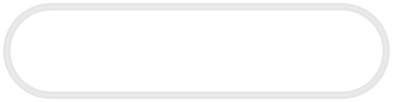
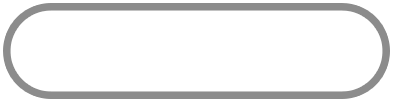
Lots of things happened. In app purchase code has been added. needs to be tested.

Changed region(s): [[0.0, 0.0294, 1.0, 0.9706]]

diff --git a/Poppolo/MainMenu.m b/Poppolo/MainMenu.m
@@ -22,6 +22,18 @@
         self.backgroundColor = [SKColor whiteColor];
         
         
+        // remove ads button
+        
+        // duzelt burayi
+        
+        SKButton *removeAdsButton = [[SKButton alloc] initWithImageNamedNormal:@"WhiteOverlay" selected:@"TransparentButton"];
+        [removeAdsButton setPosition:CGPointMake(self.scene.size.width/2, self.scene.size.height/2-200)];
+        [removeAdsButton.title setText:@"remove ads"];
+        [removeAdsButton.title setFontName:@"Helvetica"];
+        [removeAdsButton.title setFontSize:20.0];
+        [removeAdsButton.title setFontColor:levelPassColor];
+        [removeAdsButton setTouchUpInsideTarget:self action:@selector(removeAds)];
+        [self addChild:removeAdsButton];
         
 
         
@@ -32,6 +44,9 @@
         
         SKAction *fadeIn = [SKAction fadeInWithDuration:2];
         [logoNode runAction:fadeIn];
+        
+       
+       
         
         // play button
         
@@ -44,17 +59,6 @@
         [backButton setTouchUpInsideTarget:self action:@selector(resumeLevel)];
         [self addChild:backButton];
         
-        // remove ads button
-        
-        SKButton *removeAdsButton = [[SKButton alloc] initWithImageNamedNormal:@"TransparentButton" selected:@"TransparentButton"];
-        [removeAdsButton setPosition:CGPointMake(self.scene.size.width/2, self.scene.size.height/2-40)];
-        [removeAdsButton.title setText:@"remove ads"];
-        [removeAdsButton.title setFontName:@"Helvetica"];
-        [removeAdsButton.title setFontSize:20.0];
-        [removeAdsButton.title setFontColor:instructionColor];
-        [removeAdsButton setTouchUpInsideTarget:self action:@selector(removeAds)];
-        [self addChild:removeAdsButton];
-        
         // set the ad counter
         
         [GameData sharedGameData].adShowCount = 0;
@@ -62,7 +66,7 @@
         SKLabelNode *gameRuleLabel2 = [[SKLabelNode alloc] initWithFontNamed:@"Helvetica"];
         gameRuleLabel2.text = @"this is a simple game.";
         gameRuleLabel2.fontSize = 24;
-        gameRuleLabel2.fontColor = [UIColor colorWithRed:230/255.0 green:230/255.0 blue:230/255.0 alpha:1.0];
+        gameRuleLabel2.fontColor = [UIColor colorWithRed:140/255.0 green:140/255.0 blue:140/255.0 alpha:1.0];
         gameRuleLabel2.position = CGPointMake(self.scene.size.width/2, self.scene.size.height/2 -90);
         gameRuleLabel2.alpha = 0 ;
         
@@ -82,7 +86,7 @@
         SKLabelNode *gameRuleLabel = [[SKLabelNode alloc] initWithFontNamed:@"Helvetica"];
         gameRuleLabel.text = @"follow the suit, or lose.";
         gameRuleLabel.fontSize = 24;
-        gameRuleLabel.fontColor = [UIColor colorWithRed:230/255.0 green:230/255.0 blue:230/255.0 alpha:1.0];
+        gameRuleLabel.fontColor = [UIColor colorWithRed:140/255.0 green:140/255.0 blue:140/255.0 alpha:1.0];
         gameRuleLabel.position = CGPointMake(self.scene.size.width/2, self.scene.size.height/2 -120);
         gameRuleLabel.alpha = 0 ;
         
@@ -99,7 +103,7 @@
         SKLabelNode *gameRuleLabel4 = [[SKLabelNode alloc] initWithFontNamed:@"Helvetica"];
         gameRuleLabel4.text = [NSString stringWithFormat:@"high score: %li", [GameData sharedGameData].highScore];
         gameRuleLabel4.fontSize = 24;
-        gameRuleLabel4.fontColor = [UIColor colorWithRed:230/255.0 green:230/255.0 blue:230/255.0 alpha:1.0];
+        gameRuleLabel4.fontColor = [UIColor colorWithRed:140/255.0 green:140/255.0 blue:140/255.0 alpha:1.0];
         gameRuleLabel4.position = CGPointMake(self.scene.size.width/2, self.scene.size.height/2 +180);
         gameRuleLabel4.alpha = 0 ;
         
@@ -184,7 +188,8 @@
     NSURL *url = [[NSBundle mainBundle] URLForResource:@"InApp" withExtension:@"plist"];
     NSArray *productIdentifiers =[NSArray arrayWithContentsOfURL:url];
     
-    
+    NSLog(@"remove ads button pressed");
+    [self validateProductIdentifiers:productIdentifiers];
     
 }
 
@@ -197,13 +202,80 @@
 }
 
 -(void)productsRequest:(SKProductsRequest *)request didReceiveResponse:(SKProductsResponse *)response{
-    //self.products = response.products;
     
-    for (NSString *invalidIdentifier in response.invalidProductIdentifiers) {
-        // Handle invalid product ids
+    NSArray *products = response.products;
+    SKProduct *product = [products objectAtIndex:0];
+    SKMutablePayment *payment = [SKMutablePayment paymentWithProduct:product];
+    payment.quantity = 1;
+    
+    
+    [[SKPaymentQueue defaultQueue] addPayment:payment];
+
+    
+}
+
+-(void)paymentQueue:(SKPaymentQueue *)queue updatedTransactions:(NSArray *)transactions{
+    
+    for (SKPaymentTransaction *transaction in transactions){
+        
+        switch (transaction.transactionState) {
+            case SKPaymentTransactionStatePurchased:
+                // purchase completed
+                [self completeTransaction:transaction];
+                break;
+            case SKPaymentTransactionStateFailed:
+                // purchase failed
+                [self failedTransaction:transaction];
+                break;
+            case SKPaymentTransactionStateRestored:
+                //purchase restored
+                [self restoreTransaction:transaction];
+                break;
+            default:
+                break;
+        }
     }
+}
+
+-(void)completeTransaction:(SKPaymentTransaction *)transaction{
+    
+    
+    [self recordTransaction:transaction];
+    [self provideContent:transaction.payment.productIdentifier];
+    
+    // remove the transaction from the payment queue
+    
+    [[SKPaymentQueue defaultQueue] finishTransaction:transaction];
+    
+}
+
+-(void)failedTransaction:(SKPaymentTransaction *)transaction{
+    
+    if (transaction.error.code != SKErrorPaymentCancelled) {
+        
+        UIAlertView *alertView = [[UIAlertView alloc] initWithTitle:@"Transaction failed" message:@"Your payment did not go through" delegate:self cancelButtonTitle:@"OK" otherButtonTitles:nil, nil];
+        [alertView show];
+    }
+    
+    [[SKPaymentQueue defaultQueue] finishTransaction:transaction];
+}
+
+-(void)restoreTransaction:(SKPaymentTransaction *)transaction{
+    
+    [self recordTransaction:transaction];
+    [self provideContent:transaction.originalTransaction.payment.productIdentifier];
+    [[SKPaymentQueue defaultQueue] finishTransaction:transaction];
+    
+}
+
+-(void)provideContent:(NSString *)contentId{
+    
+    // unlock endless mode
+    
+    [[NSUserDefaults standardUserDefaults] setInteger:2 forKey:contentId];
     
     
 }
+
 
 @end

diff --git a/Poppolo/StoreHelper.m b/Poppolo/StoreHelper.m
@@ -40,7 +40,7 @@
         return;
     }
     
-    currentPurchase = EndlessMode;
+    currentPurchase = RemoveAds;
     
     SKProductsRequest *request = [[SKProductsRequest alloc] initWithProductIdentifiers:[NSSet setWithObject:currentPurchase]];
     request.delegate=self;
@@ -105,8 +105,8 @@
     
     if (transaction.error.code != SKErrorPaymentCancelled) {
         
-        UIAlertView *alert = [[UIAlertView alloc] initWithTitle:@"Transaction failed" message:@"Your payment did not go throught" delegate:self cancelButtonTitle:@"OK" otherButtonTitles:nil, nil];
-        [alert show];
+        UIAlertView *alertView = [[UIAlertView alloc] initWithTitle:@"Transaction failed" message:@"Your payment did not go through" delegate:self cancelButtonTitle:@"OK" otherButtonTitles:nil, nil];
+        [alertView show];
     }
     
     [[SKPaymentQueue defaultQueue] finishTransaction:transaction];
@@ -128,7 +128,7 @@
     
     AppDelegate *appDelegateInstance = (AppDelegate*) [[UIApplication sharedApplication] delegate];
     
-    if ([contentId isEqualToString:EndlessMode]) {
+    if ([contentId isEqualToString:RemoveAds]) {
         [appDelegateInstance unlockEndlessMode];
     }
     

diff --git a/Poppolo/Constants.h b/Poppolo/Constants.h
@@ -8,7 +8,7 @@
 
 // Label Colors
 
-#define instructionColor [SKColor colorWithRed:230/255.0 green:230/255.0 blue:230/255.0 alpha:1.0]
+#define instructionColor [SKColor colorWithRed:140/255.0 green:140/255.0 blue:140/255.0 alpha:1.0]
 #define warningColor [SKColor colorWithRed:230/255.0 green:190/255.0 blue:190/255.0 alpha:1.0]
 #define levelPassColor [SKColor colorWithRed:200/255.0 green:200/255.0 blue:215/255.0 alpha:1.0]
 #define secretLevelBackgroundColor [SKColor colorWithRed:100/255.0 green:100/255.0 blue:100/255.0 alpha:1.0]
@@ -67,7 +67,7 @@
 
 // Endless mode
 
-#define EndlessMode @"com.cihankoseoglu.poppolo.endlessmode"
+#define RemoveAds @"com.cihankoseoglu.poppolo.removeads"
 
 
 

diff --git a/Poppolo/MainMenu.h b/Poppolo/MainMenu.h
@@ -9,6 +9,15 @@
 #import <SpriteKit/SpriteKit.h>
 #import <StoreKit/StoreKit.h>
 
-@interface MainMenu : SKScene <SKProductsRequestDelegate>
+@interface MainMenu : SKScene <SKProductsRequestDelegate, SKPaymentTransactionObserver, SKRequestDelegate,UIAlertViewDelegate>
+
+
+-(void) completeTransaction: (SKPaymentTransaction *)transaction;
+-(void) restoreTransaction: (SKPaymentTransaction *)transaction;
+-(void) failedTransaction: (SKPaymentTransaction *)transaction;
+-(void) recordTransaction: (SKPaymentTransaction *)transaction;
+-(void) provideContent: (NSString *)contentId;
+-(void) makePurchase;
+-(void) requestProductData;
 
 @end
